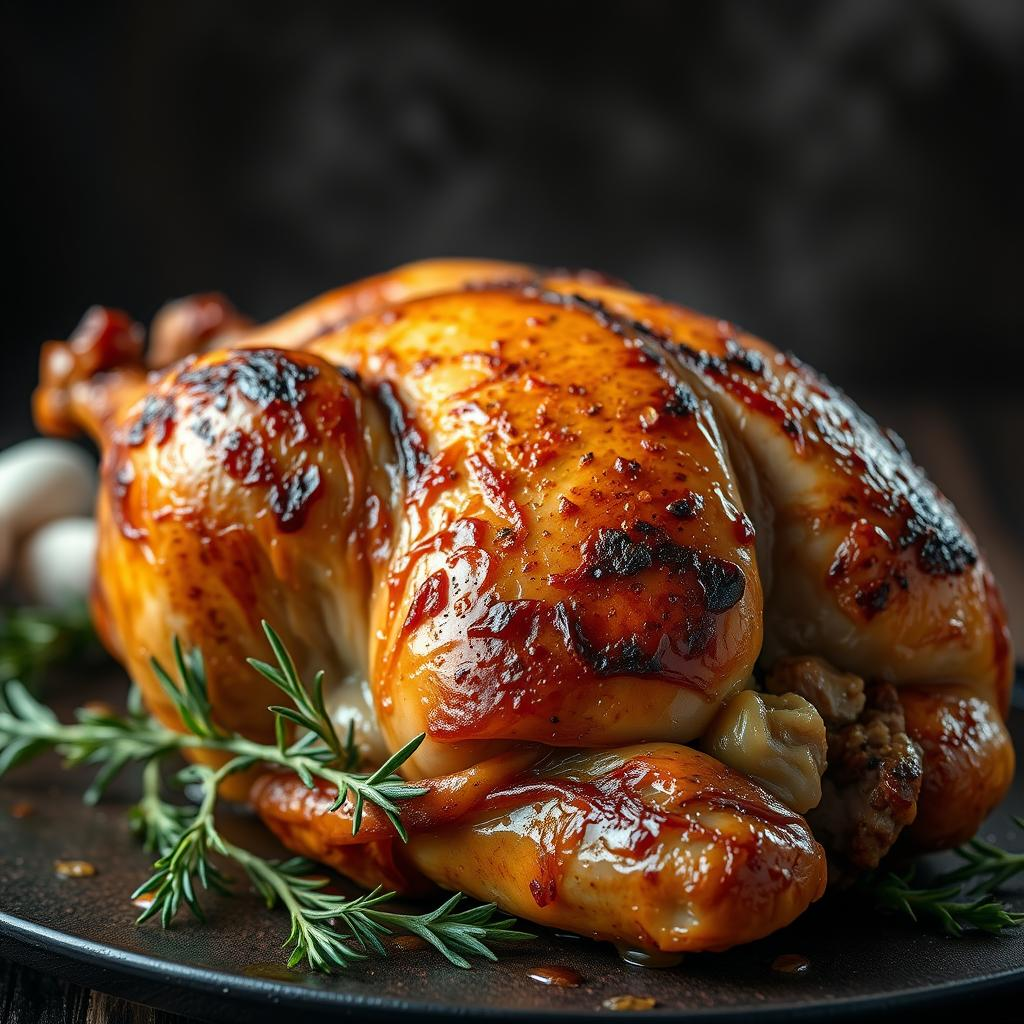
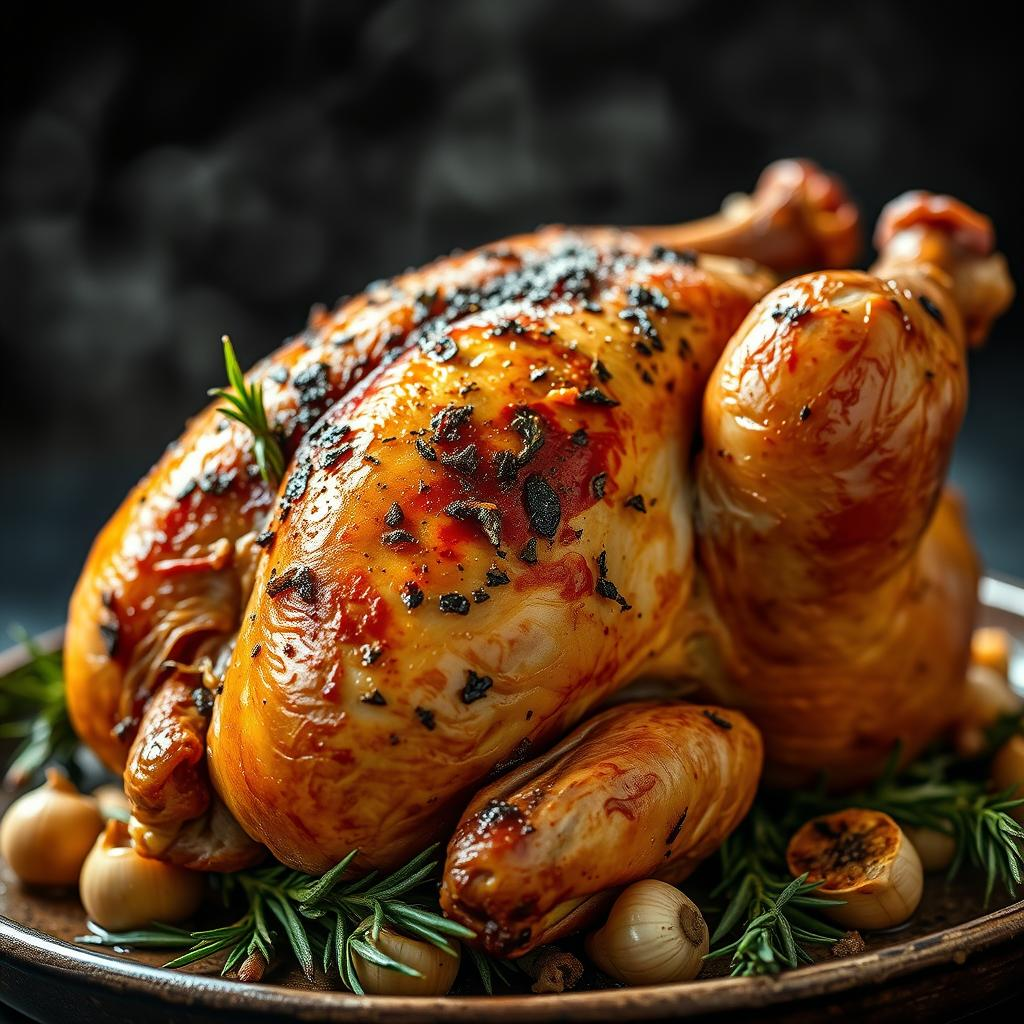
chore: final code polish and stabilization of pin generator

diff --git a/bridge_page/discovery/edition-20-2026.html b/bridge_page/discovery/edition-20-2026.html
@@ -21,11 +21,11 @@
         <!-- POST: cli-test-pin-2 -->
         <div class="card" id="cli-test-pin-2">
             <div class="card-img-wrapper">
-                <img src="assets/cli-test-pin-2.jpg" alt="Easy Roasted Chicken Recipe: The Secret to Crispy Golden Skin" class="card-img">
+                <img src="assets/cli-test-pin-2.jpg" alt="Easy Roasted Chicken Recipe: The Secret to Restaurant-Quality Crispy Skin Every Time" class="card-img">
             </div>
             <div class="card-body">
-                <h2 class="card-title">Easy Roasted Chicken Recipe: The Secret to Crispy Golden Skin</h2>
-                <p class="card-excerpt">Master the art of the perfect oven roasted herb chicken. This easy roasted chicken recipe delivers ultra-juicy meat with that iconic crispy skin roast chicken texture everyone craves. Simple, flavorful, and perfect for Sunday dinner. Click to get the full step-by-step guide! #roastedchicken #easyrecipes #dinnerideas #foodphotography #roastedchicken #easyrecipes #foodphotography #dinnerideas #comfortfood #healthyrecipes #ovenroasted</p>
+                <h2 class="card-title">Easy Roasted Chicken Recipe: The Secret to Restaurant-Quality Crispy Skin Every Time</h2>
+                <p class="card-excerpt">Master the art of an easy roasted chicken recipe that delivers perfectly crispy skin and succulent, herb-infused meat. This herb butter roasted chicken is the ultimate crowd-pleasing dinner. Learn how to achieve golden, caramelized edges in your own oven. Perfect for Sunday meal prep or holiday dinners. #roastedchicken #easyrecipes #dinnerideas #chickenrecipe #foodphotography #roastedchicken #easyrecipes #dinnerideas #crispychicken #foodie #mealprep</p>
                 <a href="https://google.com" class="card-btn">READ FULL RECIPE</a>
             </div>
         </div>
@@ -33,11 +33,11 @@
         <!-- POST: cli-test-pin-1 -->
         <div class="card" id="cli-test-pin-1">
             <div class="card-img-wrapper">
-                <img src="assets/cli-test-pin-1.jpg" alt="Easy Roasted Chicken Recipe: The Secret to Crispy, Golden Perfection" class="card-img">
+                <img src="assets/cli-test-pin-1.jpg" alt="Easy Roasted Chicken Recipe: The Secret to Perfect Crispy Skin" class="card-img">
             </div>
             <div class="card-body">
-                <h2 class="card-title">Easy Roasted Chicken Recipe: The Secret to Crispy, Golden Perfection</h2>
-                <p class="card-excerpt">Master the art of the perfect herbed oven roasted chicken with this foolproof guide. Learn how to achieve that signature crispy skin roast chicken with juicy, flavor-packed meat. This easy roasted chicken recipe is the ultimate weeknight dinner solution that looks like a gourmet masterpiece. Save this recipe for your next Sunday family roast! #roastchicken #easydinner #foodphotography #recipe #roastchicken #easydinner #foodphotography #recipe #comfortfood #pinterestfood</p>
+                <h2 class="card-title">Easy Roasted Chicken Recipe: The Secret to Perfect Crispy Skin</h2>
+                <p class="card-excerpt">Master the art of the perfect herbed oven roasted chicken with this foolproof guide. Learn how to achieve golden, crispy skin roast chicken every single time with juicy, flavorful meat. This easy roasted chicken recipe is the ultimate weeknight dinner that tastes like a gourmet meal. Perfect for Sunday family dinners! #roastchicken #easydinner #foodphotography #recipeideas #roastchicken #easydinner #foodphotography #recipeideas #comfortfood #healthyrecipes</p>
                 <a href="https://google.com" class="card-btn">READ FULL RECIPE</a>
             </div>
         </div>

diff --git a/pinterest_engine/pin_generator.py b/pinterest_engine/pin_generator.py
@@ -593,7 +593,6 @@ def update_weekly_magazine(slug, title, target_url, excerpt, image_file_name):
             if marker in content:
                 print(f"   [Gallery] Appending new card: {slug}")
                 html_file.write_text(content.replace(marker, f"{marker}\n{card_html}"), encoding="utf-8")
-                
 
     return f"{BRIDGE_PAGE_URL_BASE.strip('/')}/discovery/{week_slug}.html#{slug}"
 
